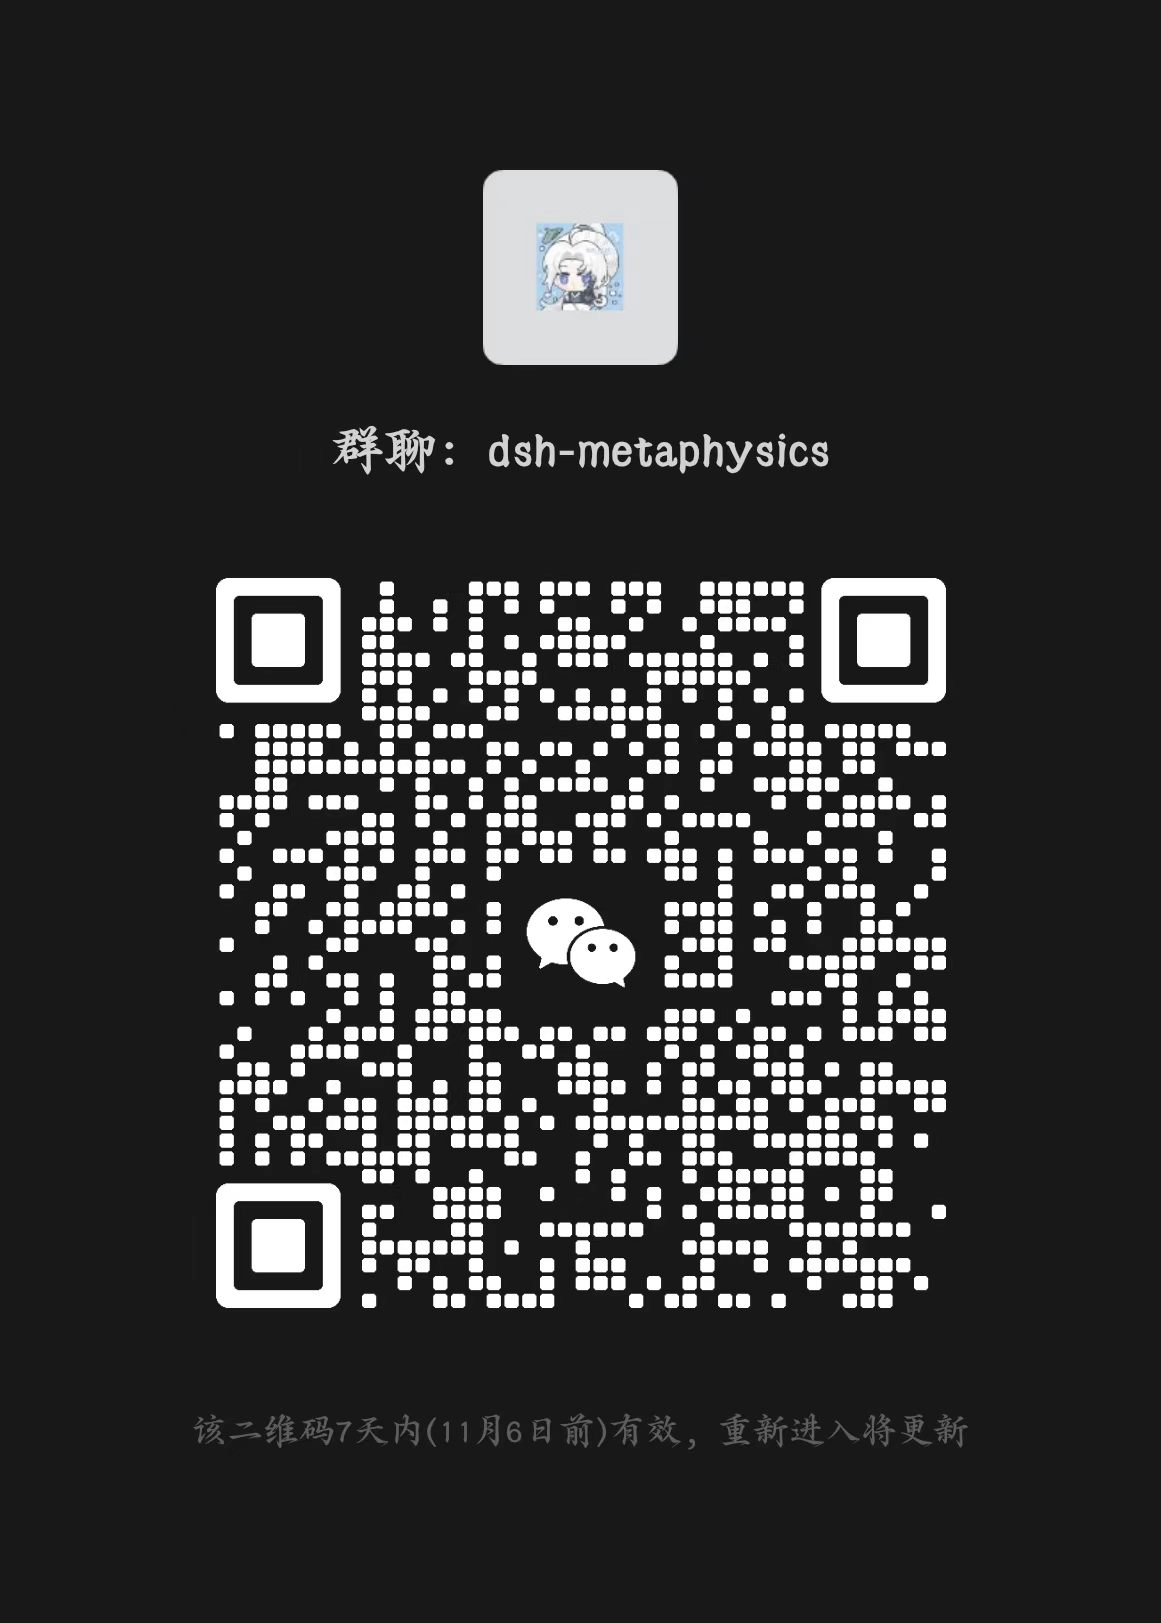
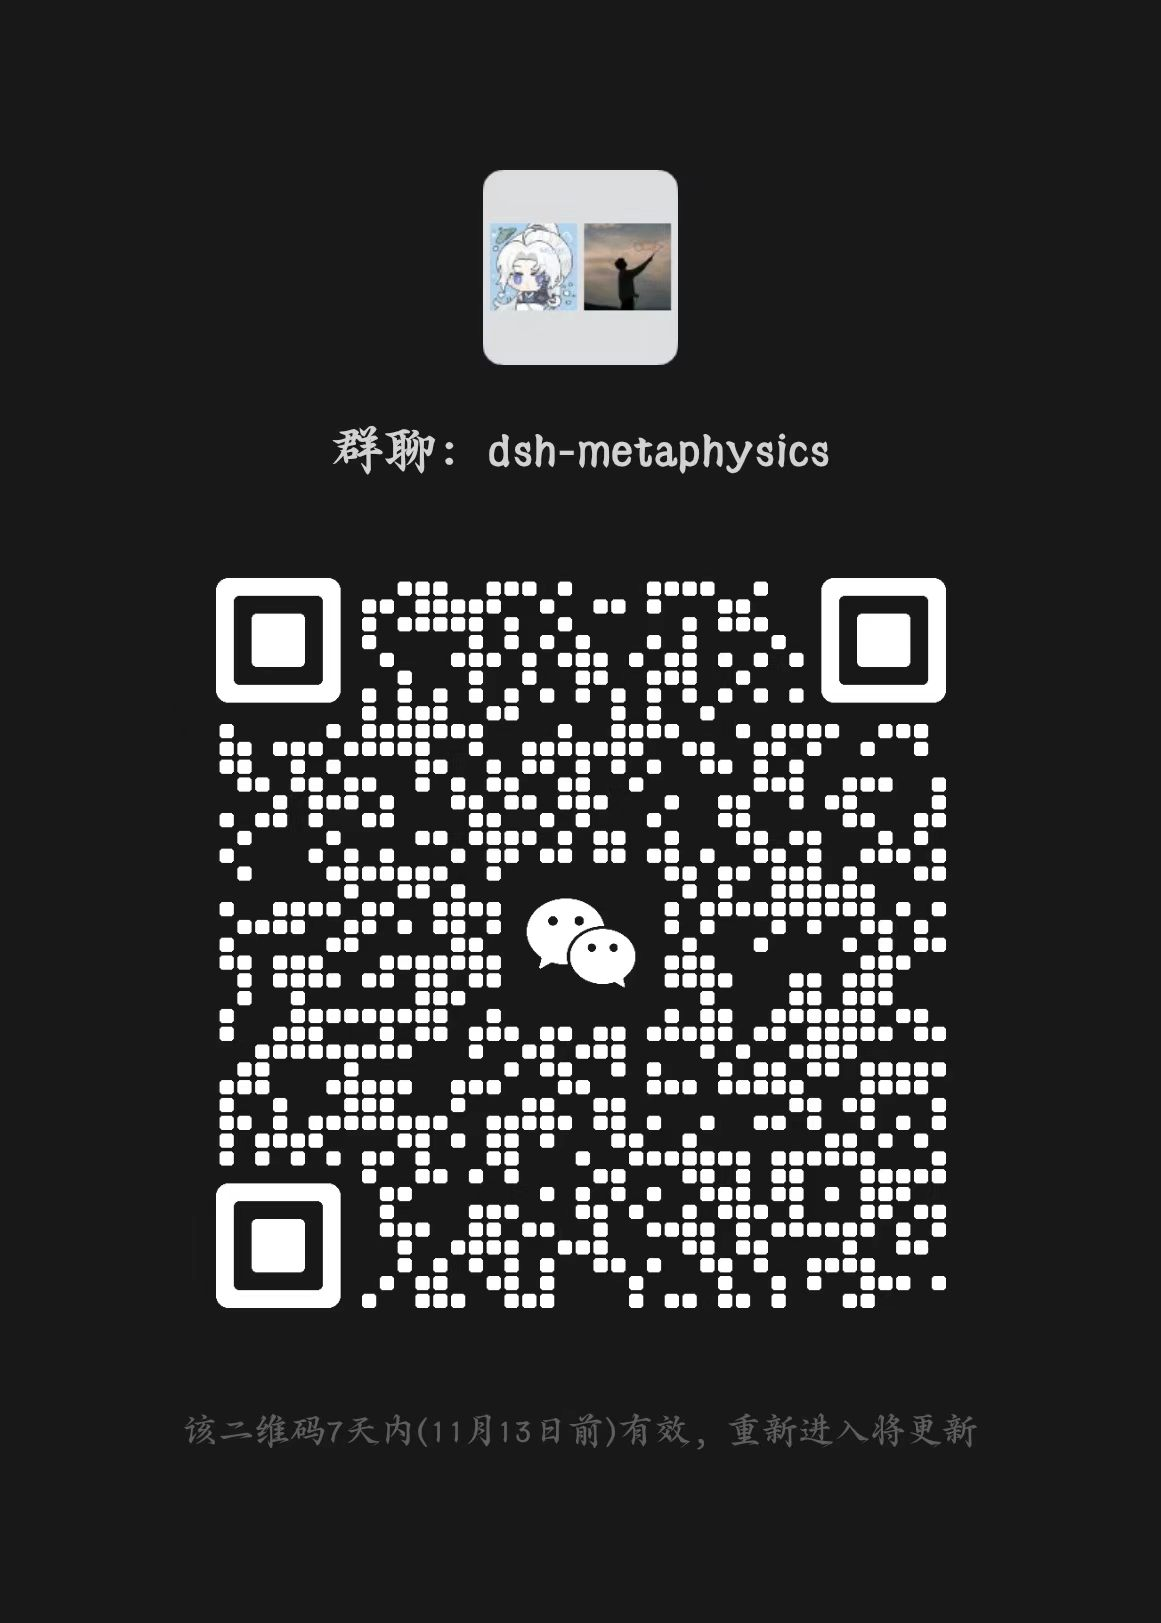
docs: 讨论群二维码换新图（11 月 13 日前有效）
新图挂到 v0.62.3 release 附件 dsh-metaphysics-group-2026-11-06.jpg，
README 图片与有效期同步；过期的 v0.50.1 旧附件已删。

diff --git a/CHANGELOG.md b/CHANGELOG.md
@@ -18,6 +18,8 @@
 - **解析范围：README 与工具说明改成准确的 7 个体系**（`README.md`、`engine/index.js`）：原文「每个体系的排盘结果下方都会跟一个『解析与详解』模块」与实际不符——实测只有 bazi / ziwei / liuyao / meihua / daliuren / qimen / tarot 产出 `interpret`；hepan 有自己的逐项对照详批、trend 有自己的阶段报告、name 有自己的五格与音韵评估，其余速查类（黄历 / 择日 / 称骨 / 小六壬 / 星座 / 生命数字 / 人格 / 公农历互转）不附解析。`withInterpret` 的 schema 说明与工具长描述同步点名范围，免得模型对速查类白传。
 - **ΔT 远年外推：2100 年后改用抛物线公式**（`engine/calendar.js` 的 `deltaTSeconds`）：原实现 2100 年后返回常数 110 秒，未考虑地球自转长期减慢的二次效应。Morrison & Stephenson (2004) 抛物线为 **ΔT ≈ 32 × ((year − 1820)/100)² 秒**（括号里是世纪）；本实现以 2100 端点 110s 接续增长率，保证 2100→2101 连续：2101 约 112s、2200 约 321s、2400 约 936s。**发版前复查抓到的单位错误**：初版写成 `32 × (year − 1820)²`，2400 年得到 1076 万秒（约 124 天），节气与朔望会整体推后几个月（CI 里 2400 年农历、朔望全部错位）；现按世纪平方修正，并加「量级 < 3600s、2100 连续、2100→2400 单调」回归锁。影响范围：`termInstantJd` 求节气时刻、`newMoonJd` 求合朔时刻均经此函数修正 TT→UT，远年农历置闰与节气定位随之纠正。
 
+- **文档**：讨论群二维码换新图（`docs/assets/dsh-metaphysics-group.jpg`，11 月 13 日前有效，2026-11-06 更新）。上一批 11 月 6 日到期，README 图片改指 `v0.62.3` release 附件的新文件名 `dsh-metaphysics-group-2026-11-06.jpg`，避免旧图缓存继续命中。不涉及运行时与断言数。
+
 ## 0.62.2（2026-11-05）
 
 > 已发布：npm `dsh-metaphysics@0.62.2`，shasum `13ca04fb9ad703addf3bc40ea01a7e26ff9a9bdb`，102 个文件；tag `v0.62.2` 已推，GitHub release 已建，tarball 已下载核对。

diff --git a/README.md b/README.md
@@ -412,11 +412,11 @@ NPM_TOKEN=... node tools/release-rollback.mjs --version 0.57.1 --previous 0.57.0
 
 微信群：**dsh-metaphysics**
 
-<img src="https://github.com/xuanfu-web/dsh-metaphysics/releases/download/v0.50.1/dsh-metaphysics-group-2026-10-30.jpg" alt="dsh-metaphysics 讨论群二维码" width="480">
+<img src="https://github.com/xuanfu-web/dsh-metaphysics/releases/download/v0.62.3/dsh-metaphysics-group-2026-11-06.jpg" alt="dsh-metaphysics 讨论群二维码" width="480">
 
 图片用 GitHub Release 附件（不经过 camo / raw，部分网络下更稳）。
 
-这批二维码 7 天内有效（11 月 6 日前，2026-10-30 更新）；过期了在 [issues](https://github.com/xuanfu-web/dsh-metaphysics/issues) 说一声，我换新图。只想提问题、不想进群的，开 issue 一样算数。
+这批二维码 7 天内有效（11 月 13 日前，2026-11-06 更新）；过期了在 [issues](https://github.com/xuanfu-web/dsh-metaphysics/issues) 说一声，我换新图。只想提问题、不想进群的，开 issue 一样算数。
 
 ## 致谢
 
